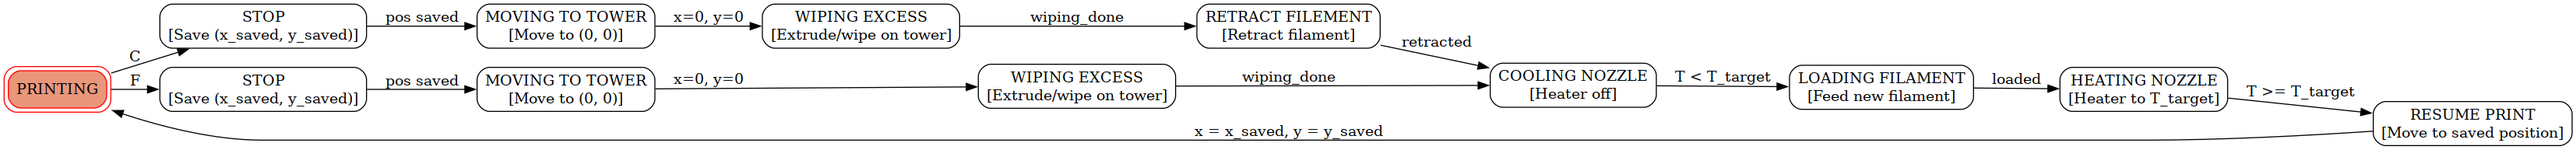
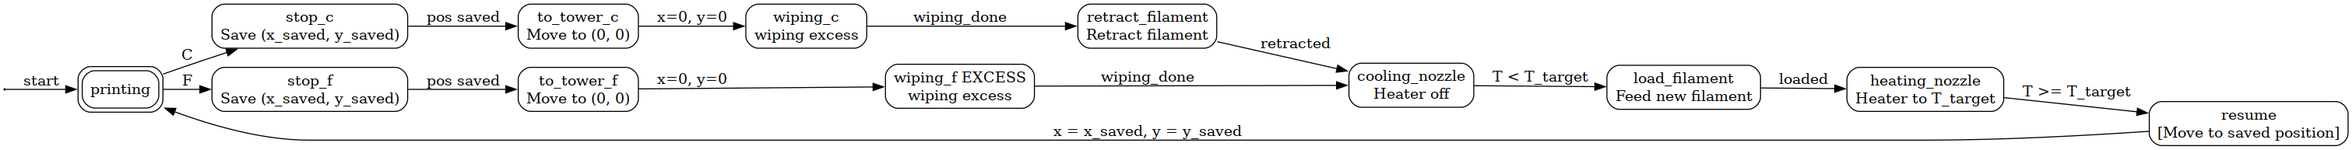
changed layout for split path fsm

diff --git a/src/FSM_graph.py b/src/FSM_graph.py
@@ -57,14 +57,30 @@ subcomments = {
 
 graph = machine.get_graph()
 
+ACCEPTING = {"printing"}
+ 
+graph = machine.get_graph()
+graph.graph_attr["rankdir"] = "LR"
+ 
 if hasattr(graph, "get_node"):
     for name, text in subcomments.items():
-        node = graph.get_node(name)
-        node.attr["label"] = text
+        graph.get_node(name).attr.update(
+            label=text, shape="box",
+            peripheries="2" if name in ACCEPTING else "1",
+            style="rounded,filled", fillcolor="white", color="black",
+        )
+    graph.add_node("start", label="", shape="none", width="0", height="0")
+    graph.add_edge("start", "printing", label="start")
     graph.draw("fsm_model.png", prog="dot")
 else:
     for name, text in subcomments.items():
-        graph.node(name, label=text)
+        graph.node(
+            name, label=text, shape="box",
+            peripheries="2" if name in ACCEPTING else "1",
+            style="rounded,filled", fillcolor="white", color="black",
+        )
+    graph.node("start", label="", shape="none", width="0", height="0")
+    graph.edge("start", "printing", label="start")
     graph.render("fsm_model", format="png", cleanup=True)
-
+ 
 print("Saved FSM diagram to fsm_model.png")
